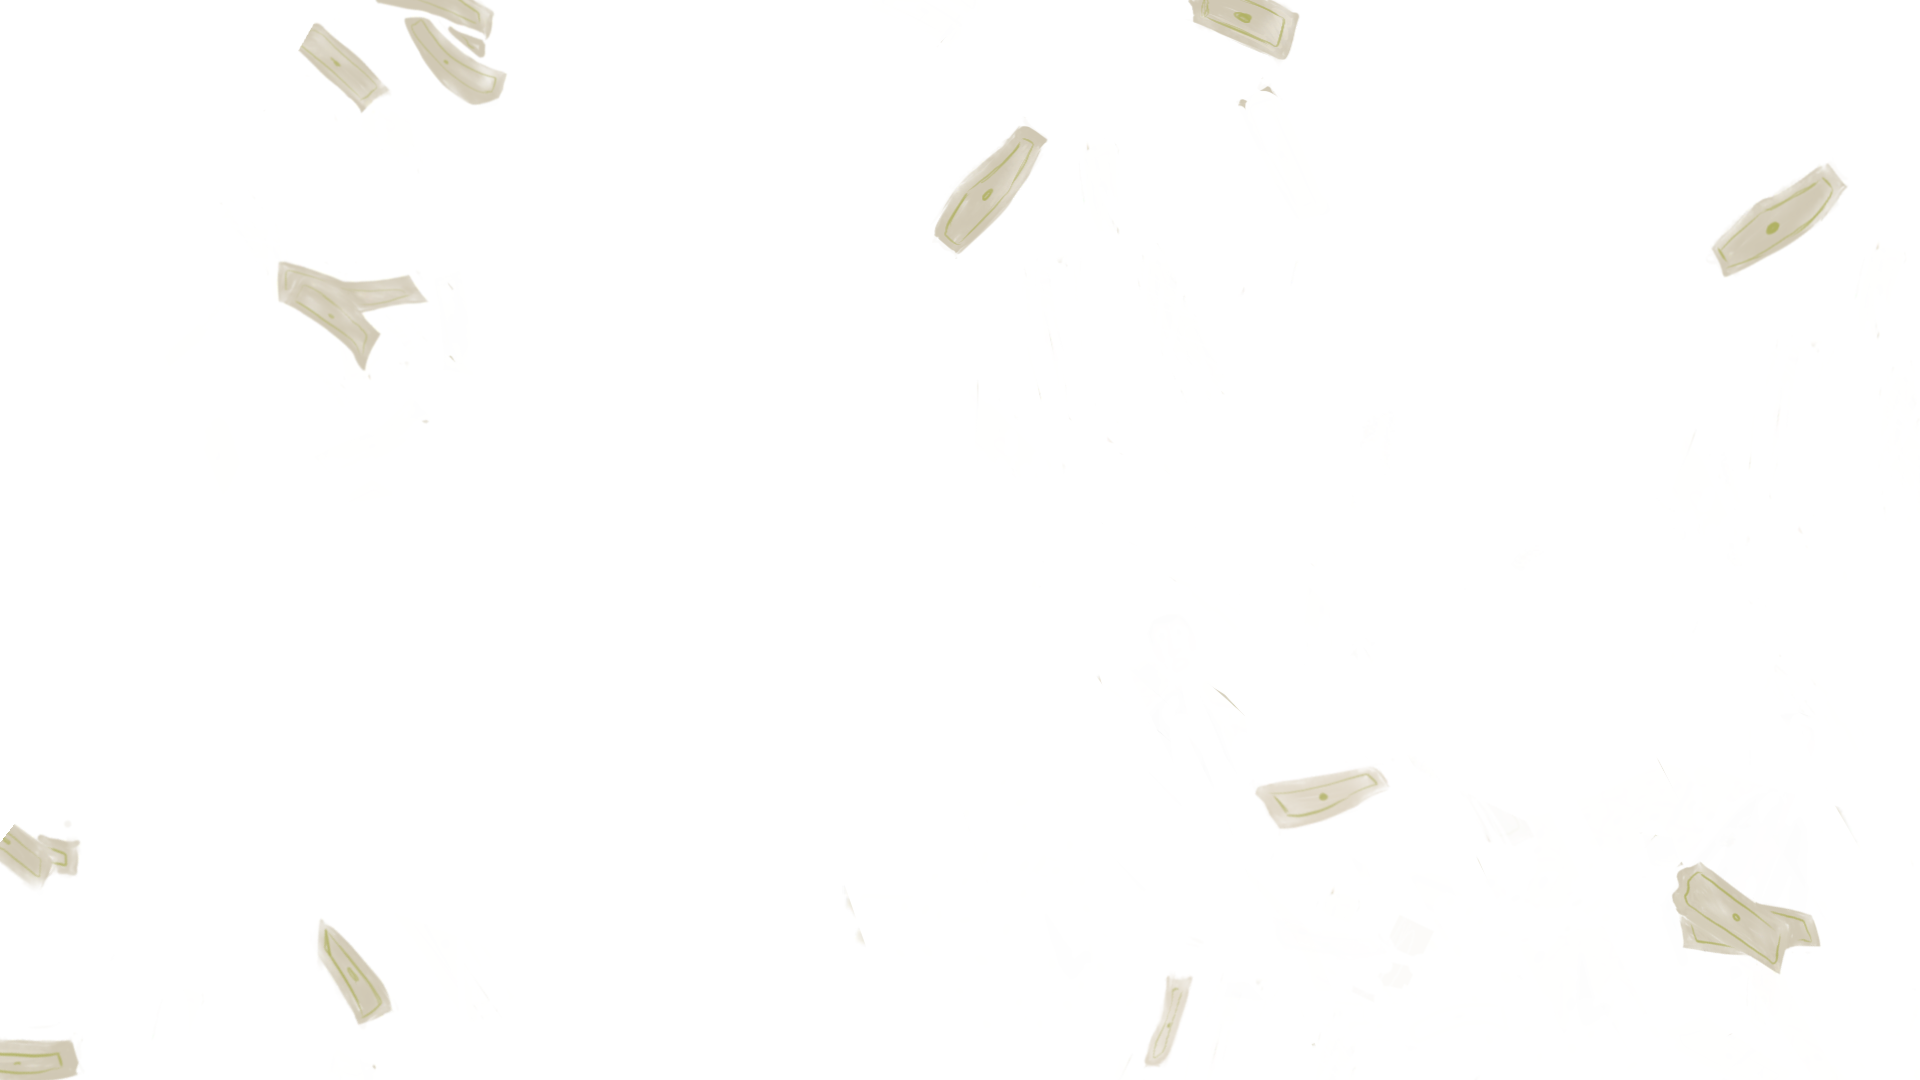
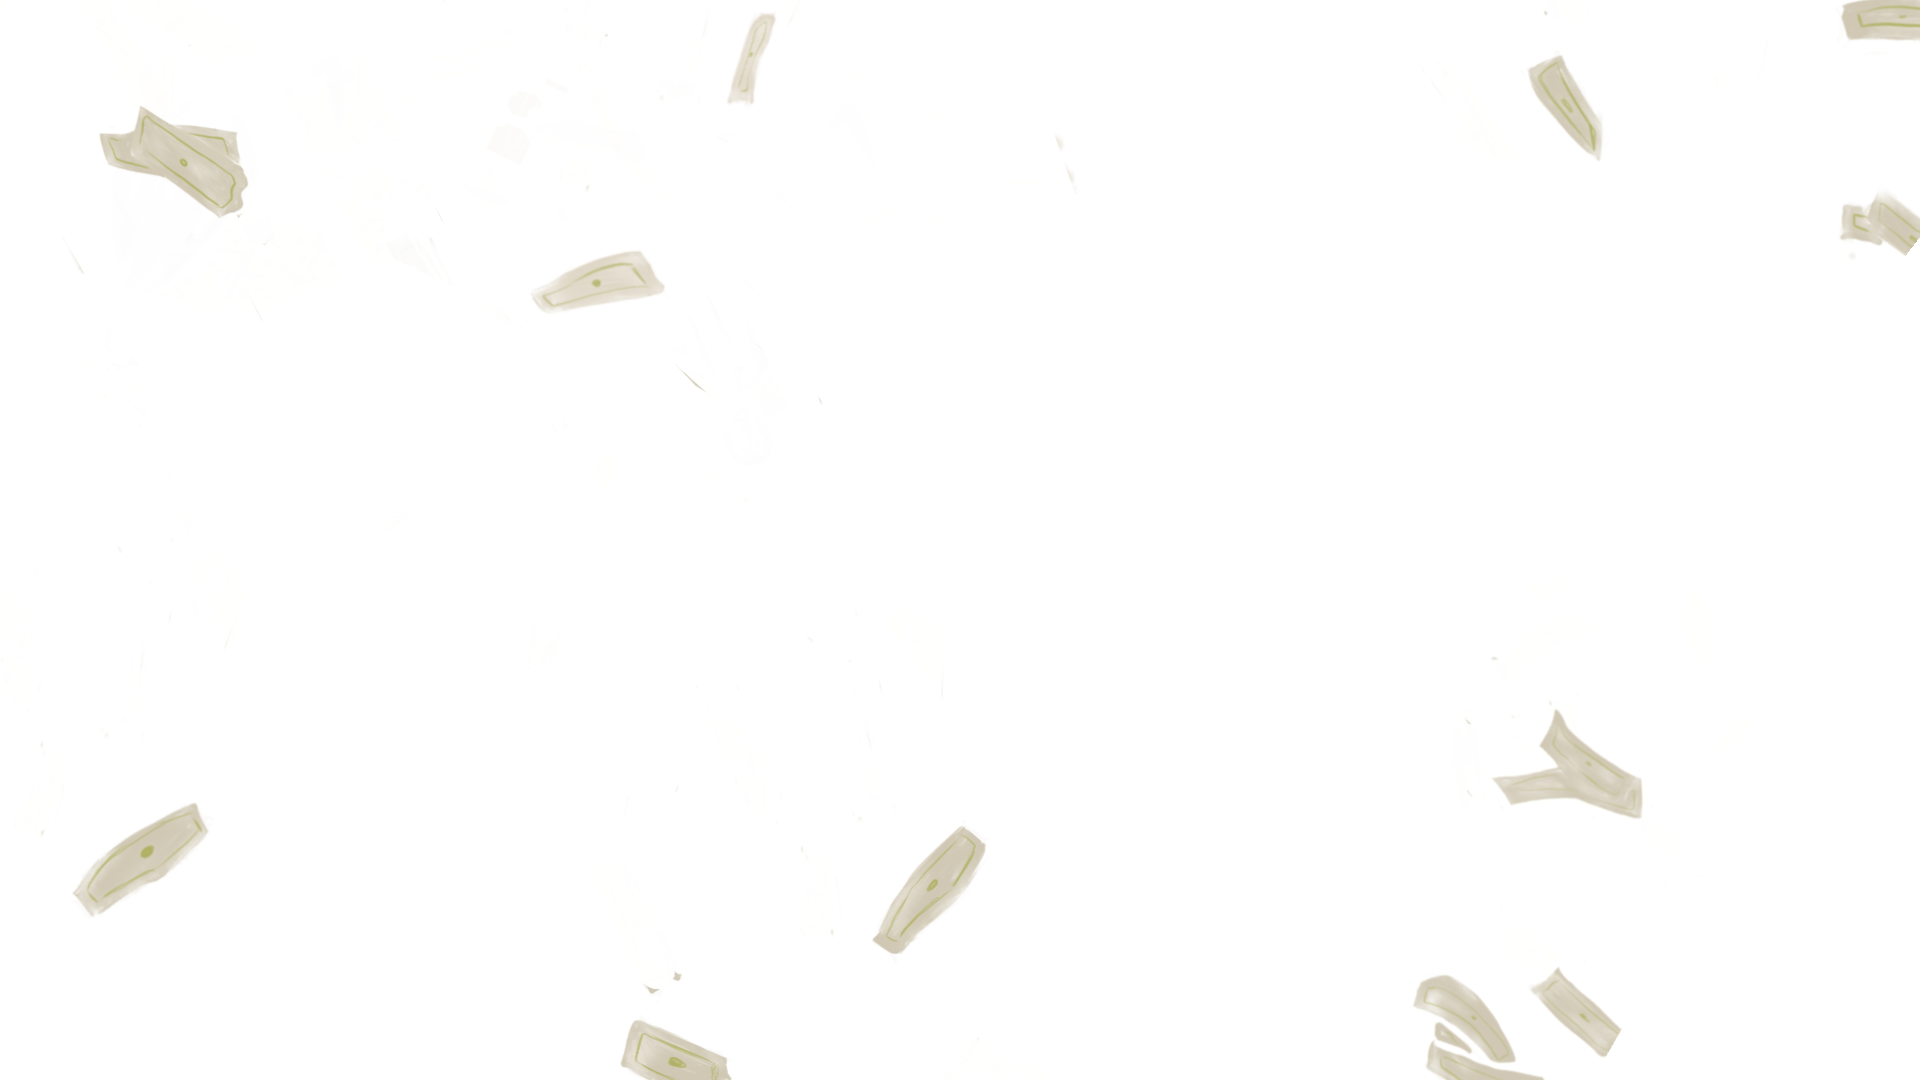
Melhorias
Substitui a imagem do tabuleiro por uma com melhor qualidade
Tirei o titulo obra da pasta quizz
coloquei a imagem do dinheiro no sítio

diff --git a/index.html b/index.html
@@ -28,6 +28,7 @@
   <main>
     <section class="secondScreen">
       <div class="container" id="secondContainer">
+        <img class="moneyBackground" src="midlepages/money_screen.png" width="100%" alt="dinheiro">
         <img class="imgTitulo" src="midlepages/autor.png" width="32%" alt="Max Aub">
         <div class="text autorText">
           <p>Nascido em Paris, França, de pais alemães, Max Aub (1903-1972) foi um escritor e dramaturgo
@@ -45,7 +46,6 @@
           </p>
         </div>
         <img id="money" src="midlepages/money/money0.png" alt="dinheiro">
-        <!-- <img src="midlepages/money_screen.png" width="100%" alt="dinheiro"> -->
       </div>
     </section>
 

diff --git a/CSS/autor.css b/CSS/autor.css
@@ -1,7 +1,13 @@
 .secondContainer{
     position: relative;
-    z-index: 20;
+    z-index: 10;
 }
+
+.autorText{
+    position: relative;
+    z-index: 60;
+}
+
 
 #money {
     cursor: pointer;
@@ -10,4 +16,15 @@
     height: auto;
     top: 100vh;
     right: 7%;
+    z-index: 15;
+}
+
+.moneyBackground{
+    width: 100%;
+    height: 100vh;
+    position: absolute;
+    top: 100vh;
+    left: 0;
+    z-index: 5;
+    
 }

diff --git a/CSS/homepage.css b/CSS/homepage.css
@@ -24,7 +24,7 @@ section {
 
 section {
     background: #fffef8;
-    padding: 4% 7%;/*top & bottom   right & left*/
+    padding: 3% 5%;/*top & bottom   right & left*/
     border: solid yellow;
 }
 
